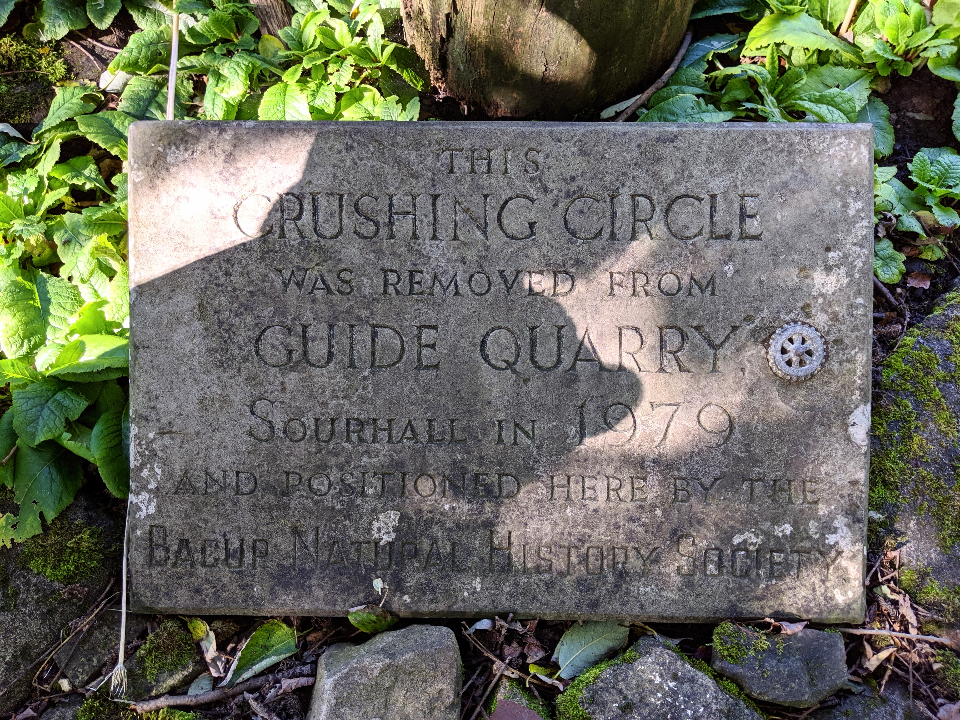
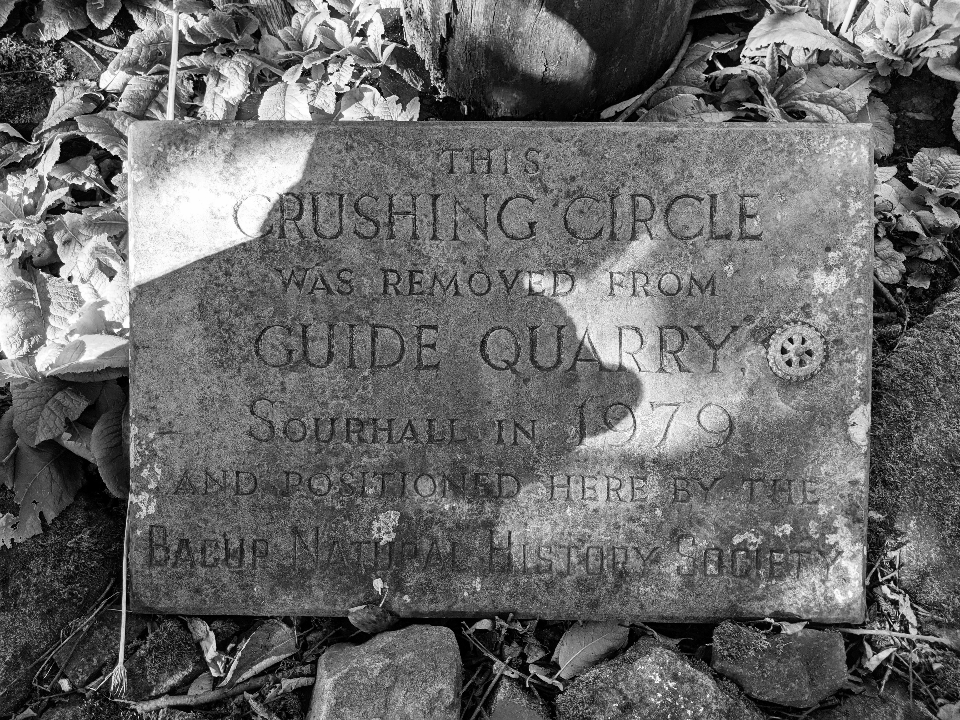
fix flower scar post

diff --git a/2019/08/27/index.html b/2019/08/27/index.html
@@ -75,8 +75,8 @@
 <body onload="fetchSourhallData()">
 <header></header>
 <div class="content">
-    <p><img src="flower_scar_sign_close_up_processed.png" alt="An old photo of Flower Scar stone crusher from the Roger Birch collection" /></p><!--- -convert_greyscale -->
-<h1>Flower Scar Stone Crusher</h1><h4>27th August 2019</h4><p>OS Grid Ref: <a href="https://osmaps.ordnancesurvey.co.uk/53.72195,-2.13588,16/pin">SD 91130 25068</a><br />
+    <!--- -convert_greyscale -->
+<p><img src="flower_scar_sign_close_up_processed.png" alt="An old photo of Flower Scar stone crusher from the Roger Birch collection" /></p><h1>Flower Scar Stone Crusher</h1><h4>27th August 2019</h4><p>OS Grid Ref: <a href="https://osmaps.ordnancesurvey.co.uk/53.72195,-2.13588,16/pin">SD 91130 25068</a><br />
 Geo URI: <code>geo: 53.7219, -2.1358</code><br />
 Latitude: 53° 43' 19&quot; N
 Longitude: 2° 8' 9&quot; W</p><p>On the Flower Scar Road turnoff,  Todmorden, where the tarmacked road becomes Tower Causeway there's a information sign about the 'Flow Scar stone crusher', a huge milling stone used to crush sandstone at Guide Quarry. The stone has been removed (purloined) and moved across the county border to Bacup Natural History Society.</p><p><img src="flower_scar_sign_processed.png" alt="A photo of the Flow Scar stone crusher information sign" /></p><p><img src="stone_crusher_processed.png" alt="A photo of the moved stone crusher in Bacup" /></p><p><img src="flower_scar_plaque_processed.png" alt="Photo of the plaque placed at the stone crusher" /></p>
@@ -88,7 +88,7 @@ Longitude: 2° 8' 9&quot; W</p><p>On the Flower Scar Road turnoff,  Todmorden, w
 <!-- start_sourhall_data -->
 <!-- end_sourhall_data -->
 </div>
-    Inspired by <a href="https://solar.lowtechmagazine.com">LOW←TECH MAGAZINE</a> | Icon by <a href="https://thenounproject.com/term/panels/2696981/">Icongeek26</a> | Page size including images: 6.4MB | <a href="https://github.com/fiskurgit/Statisk">Fisk Statisk</a><br>
+    Inspired by <a href="https://solar.lowtechmagazine.com">LOW←TECH MAGAZINE</a> | Icon by <a href="https://thenounproject.com/term/panels/2696981/">Icongeek26</a> | Page size including images: 2.3MB | <a href="https://github.com/fiskurgit/Statisk">Fisk Statisk</a><br>
 </footer>
 <script>
 function fetchAwairData(callback) {

diff --git a/2019/08/27/index.md b/2019/08/27/index.md
@@ -1,6 +1,6 @@
+<!--- -convert_greyscale -->
 ![An old photo of Flower Scar stone crusher from the Roger Birch collection](flower_scar_sign_close_up.jpg)
 
-<!--- -convert_greyscale -->
 # Flower Scar Stone Crusher
 #### 27th August 2019
 OS Grid Ref: [SD 91130 25068](https://osmaps.ordnancesurvey.co.uk/53.72195,-2.13588,16/pin)  
